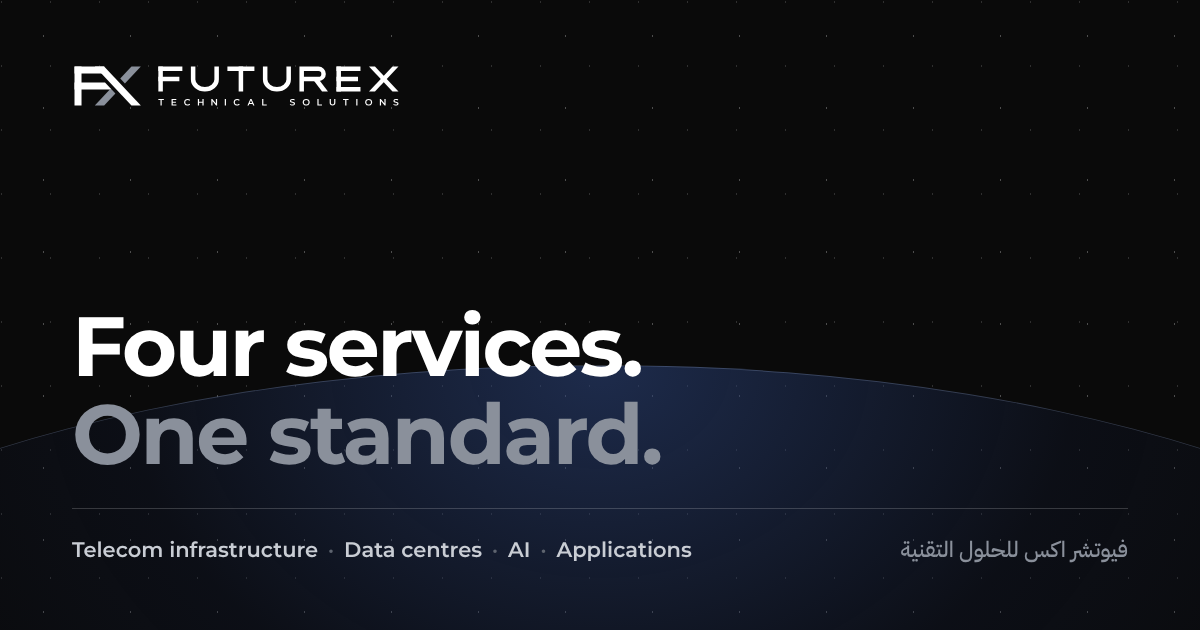
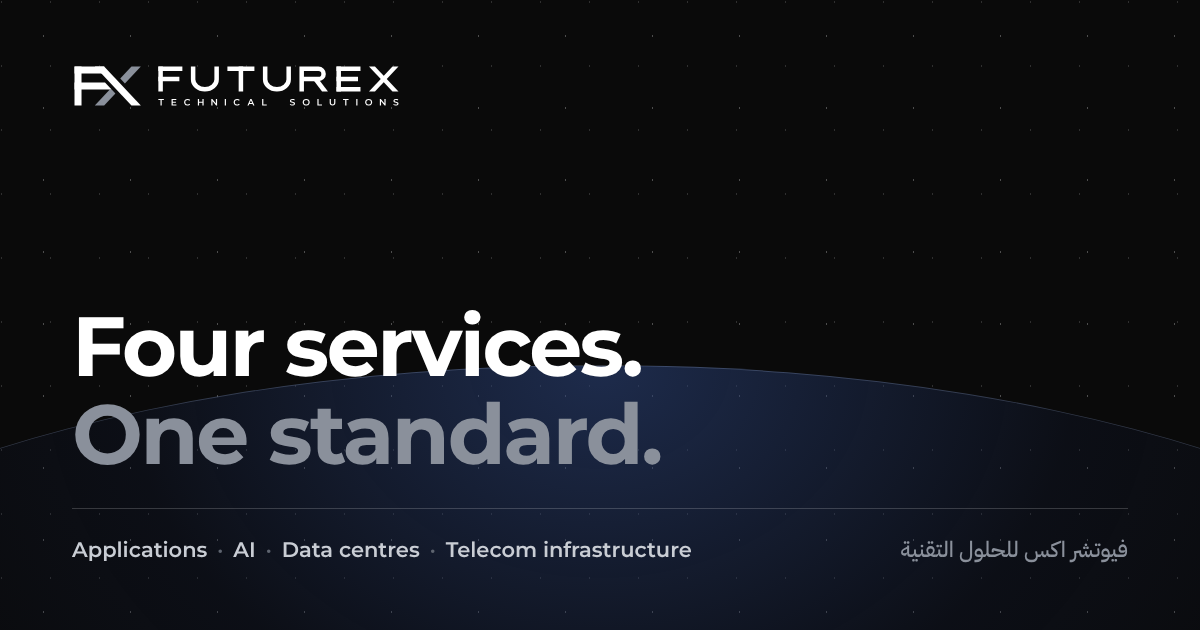
FutureX website: list the services as applications, AI, data centres, telecom
Owner's rule: wherever FutureX's services are listed, applications come
first, then artificial intelligence, data centres and telecom
infrastructure, in English and Arabic. The service sections, hero links,
descriptions, link-preview image and the sentences that name the services
follow it. The 3D stack now puts applications on top and picks each
drawing by service, not by position. The rule is recorded in CLAUDE.md.

Claude-Session: https://claude.ai/code/session_01G2LhEeTJSdnBC14fUCXsH8

Changed region(s): [[0.0617, 0.8444, 0.5858, 0.9048]]

diff --git a/futurex-site/src/i18n/content.js b/futurex-site/src/i18n/content.js
@@ -12,12 +12,12 @@ const en = {
   meta: {
     title: 'FutureX Technical Solutions',
     description:
-      'FutureX Technical Solutions, Muscat: telecom infrastructure, data centres, artificial intelligence and software applications for organisations in Oman.',
+      'FutureX Technical Solutions, Muscat: software applications, artificial intelligence, data centres and telecom infrastructure for organisations in Oman.',
   },
   nav: { layers: 'What we do', products: 'Products', approach: 'How we work', company: 'Company', contact: 'Contact', cta: 'Talk to us', lang: 'العربية', langLabel: 'Read this site in Arabic', menu: 'Menu', close: 'Close' },
   hero: {
     title: ['Four services.', 'One standard.'],
-    lead: 'Telecom infrastructure, data centres, artificial intelligence and software development. FutureX Technical Solutions offers each as a separate service, so you hire us for exactly what your project needs.',
+    lead: 'Software development, artificial intelligence, data centres and telecom infrastructure. FutureX Technical Solutions offers each as a separate service, so you hire us for exactly what your project needs.',
     primary: 'Talk to our team',
     secondary: 'See our services',
   },
@@ -25,33 +25,21 @@ const en = {
     eyebrow: 'What we do',
     title: 'Each service stands on its own.',
     intro:
-      'Every service is its own line of work, with its own team and its own contract. One client needs a fibre network built, another a data centre designed, another an AI project or a new app: we take on each one separately.',
-    stackLabel: 'Our four services: telecom infrastructure, data centres, artificial intelligence and applications',
+      'Every service is its own line of work, with its own team and its own contract. One client needs a new app, another an AI project, another a data centre designed or a fibre network built: we take on each one separately.',
+    stackLabel: 'Our four services: applications, artificial intelligence, data centres and telecom infrastructure',
     ask: 'Ask about this service',
     askMessage: 'Hello FutureX, I would like to ask about: {service}',
     items: [
       {
-        id: 'telecom',
-        name: 'Telecom infrastructure',
-        tagline: 'The network everything travels on.',
+        id: 'apps',
+        name: 'Applications',
+        tagline: 'What people actually touch.',
         services: [
-          'Fibre optic network design and deployment (FTTx)',
-          'Structured cabling for buildings and campuses',
-          'Site surveys, testing and as-built documentation',
-          'Active and passive network installation',
-          'Preventive and corrective maintenance',
-        ],
-      },
-      {
-        id: 'datacentre',
-        name: 'Data centres',
-        tagline: 'Where your systems live.',
-        services: [
-          'Server room and data centre fit-out',
-          'Racks, containment and cabling',
-          'Power and cooling coordination (UPS, precision cooling)',
-          'Monitoring, migration and relocation',
-          'Capacity and growth planning',
+          'Mobile apps for iPhone and Android',
+          'Web applications and portals',
+          'Business systems: accounting, HR, operations',
+          'Integration with the systems you already use',
+          'Support and updates after launch',
         ],
       },
       {
@@ -67,15 +55,27 @@ const en = {
         ],
       },
       {
-        id: 'apps',
-        name: 'Applications',
-        tagline: 'What people actually touch.',
+        id: 'datacentre',
+        name: 'Data centres',
+        tagline: 'Where your systems live.',
         services: [
-          'Mobile apps for iPhone and Android',
-          'Web applications and portals',
-          'Business systems: accounting, HR, operations',
-          'Integration with the systems you already use',
-          'Support and updates after launch',
+          'Server room and data centre fit-out',
+          'Racks, containment and cabling',
+          'Power and cooling coordination (UPS, precision cooling)',
+          'Monitoring, migration and relocation',
+          'Capacity and growth planning',
+        ],
+      },
+      {
+        id: 'telecom',
+        name: 'Telecom infrastructure',
+        tagline: 'The network everything travels on.',
+        services: [
+          'Fibre optic network design and deployment (FTTx)',
+          'Structured cabling for buildings and campuses',
+          'Site surveys, testing and as-built documentation',
+          'Active and passive network installation',
+          'Preventive and corrective maintenance',
         ],
       },
     ],
@@ -114,7 +114,7 @@ const en = {
   contact: {
     eyebrow: 'Contact',
     title: 'Let’s build your next project together.',
-    text: 'A site to connect, a server room to fit out, a process to automate or an app to launch: send us the details and we will arrange a meeting.',
+    text: 'An app to launch, a process to automate, a server room to fit out or a site to connect: send us the details and we will arrange a meeting.',
     email: 'Email',
     phone: 'Phone and WhatsApp',
     whatsapp: 'Message us on WhatsApp',
@@ -134,45 +134,33 @@ const ar = {
   dir: 'rtl',
   meta: {
     title: 'فيوتشر اكس للحلول التقنية',
-    description: 'فيوتشر اكس للحلول التقنية، مسقط: البنية التحتية للاتصالات، ومراكز البيانات، والذكاء الاصطناعي، وتطوير البرمجيات للمؤسسات في سلطنة عُمان.',
+    description: 'فيوتشر اكس للحلول التقنية، مسقط: تطوير البرمجيات، والذكاء الاصطناعي، ومراكز البيانات، والبنية التحتية للاتصالات للمؤسسات في سلطنة عُمان.',
   },
   nav: { layers: 'خدماتنا', products: 'منتجاتنا', approach: 'آلية العمل', company: 'الشركة', contact: 'تواصلوا معنا', cta: 'تحدّثوا معنا', lang: 'English', langLabel: 'Read this site in English', menu: 'القائمة', close: 'إغلاق' },
   hero: {
     title: ['أربع خدمات.', 'بمعيار واحد.'],
-    lead: 'البنية التحتية للاتصالات، ومراكز البيانات، والذكاء الاصطناعي، وتطوير البرمجيات. تقدّم فيوتشر اكس للحلول التقنية كلّاً منها خدمةً مستقلة، لتختاروا منها ما يحتاجه مشروعكم.',
+    lead: 'تطوير البرمجيات، والذكاء الاصطناعي، ومراكز البيانات، والبنية التحتية للاتصالات. تقدّم فيوتشر اكس للحلول التقنية كلّاً منها خدمةً مستقلة، لتختاروا منها ما يحتاجه مشروعكم.',
     primary: 'تحدّثوا مع فريقنا',
     secondary: 'تعرّفوا على خدماتنا',
   },
   layers: {
     eyebrow: 'خدماتنا',
     title: 'كل خدمة مستقلة بذاتها.',
-    intro: 'لكل خدمة مجالها وفريقها وعقدها الخاص. فقد يحتاج عميلٌ إلى تنفيذ شبكة ألياف ضوئية، وآخر إلى تصميم مركز بيانات، وثالث إلى مشروع ذكاء اصطناعي أو تطبيق جديد، ونتولّى كل خدمة منها على حدة.',
-    stackLabel: 'خدماتنا الأربع: البنية التحتية للاتصالات، ومراكز البيانات، والذكاء الاصطناعي، والتطبيقات',
+    intro: 'لكل خدمة مجالها وفريقها وعقدها الخاص. فقد يحتاج عميلٌ إلى تطبيق جديد، وآخر إلى مشروع ذكاء اصطناعي، وثالث إلى تصميم مركز بيانات أو تنفيذ شبكة ألياف ضوئية، ونتولّى كل خدمة منها على حدة.',
+    stackLabel: 'خدماتنا الأربع: التطبيقات، والذكاء الاصطناعي، ومراكز البيانات، والبنية التحتية للاتصالات',
     ask: 'استفسروا عن هذه الخدمة',
     askMessage: 'مرحباً فيوتشر اكس، أودّ الاستفسار عن خدمة: {service}',
     items: [
       {
-        id: 'telecom',
-        name: 'البنية التحتية للاتصالات',
-        tagline: 'الشبكة التي ينتقل عبرها كل شيء.',
+        id: 'apps',
+        name: 'التطبيقات',
+        tagline: 'ما يستخدمه الناس فعلاً.',
         services: [
-          'تصميم شبكات الألياف الضوئية وتنفيذها (FTTx)',
-          'أنظمة الكابلات المهيكلة للمباني والمجمّعات',
-          'المسح الميداني والاختبار وإعداد المخططات النهائية (As-Built)',
-          'تركيب مكوّنات الشبكات النشطة والخاملة',
-          'الصيانة الوقائية والتصحيحية',
-        ],
-      },
-      {
-        id: 'datacentre',
-        name: 'مراكز البيانات',
-        tagline: 'حيث تعمل أنظمتكم.',
-        services: [
-          'تجهيز غرف الخوادم ومراكز البيانات',
-          'خزائن الخوادم وعزل الممرات والتمديدات',
-          'تنسيق أنظمة الطاقة والتبريد، ومنها مزوّدات الطاقة غير المنقطعة (UPS) والتبريد الدقيق',
-          'المراقبة، وترحيل الأنظمة ونقلها',
-          'تخطيط السعة والتوسّع',
+          'تطبيقات الجوال لأجهزة آيفون وأندرويد',
+          'تطبيقات وبوابات الويب',
+          'أنظمة الأعمال: المحاسبة والموارد البشرية والعمليات',
+          'الربط بالأنظمة التي تستخدمونها حالياً',
+          'الدعم والتحديثات بعد الإطلاق',
         ],
       },
       {
@@ -188,15 +176,27 @@ const ar = {
         ],
       },
       {
-        id: 'apps',
-        name: 'التطبيقات',
-        tagline: 'ما يستخدمه الناس فعلاً.',
+        id: 'datacentre',
+        name: 'مراكز البيانات',
+        tagline: 'حيث تعمل أنظمتكم.',
         services: [
-          'تطبيقات الجوال لأجهزة آيفون وأندرويد',
-          'تطبيقات وبوابات الويب',
-          'أنظمة الأعمال: المحاسبة والموارد البشرية والعمليات',
-          'الربط بالأنظمة التي تستخدمونها حالياً',
-          'الدعم والتحديثات بعد الإطلاق',
+          'تجهيز غرف الخوادم ومراكز البيانات',
+          'خزائن الخوادم وعزل الممرات والتمديدات',
+          'تنسيق أنظمة الطاقة والتبريد، ومنها مزوّدات الطاقة غير المنقطعة (UPS) والتبريد الدقيق',
+          'المراقبة، وترحيل الأنظمة ونقلها',
+          'تخطيط السعة والتوسّع',
+        ],
+      },
+      {
+        id: 'telecom',
+        name: 'البنية التحتية للاتصالات',
+        tagline: 'الشبكة التي ينتقل عبرها كل شيء.',
+        services: [
+          'تصميم شبكات الألياف الضوئية وتنفيذها (FTTx)',
+          'أنظمة الكابلات المهيكلة للمباني والمجمّعات',
+          'المسح الميداني والاختبار وإعداد المخططات النهائية (As-Built)',
+          'تركيب مكوّنات الشبكات النشطة والخاملة',
+          'الصيانة الوقائية والتصحيحية',
         ],
       },
     ],
@@ -235,7 +235,7 @@ const ar = {
   contact: {
     eyebrow: 'تواصلوا معنا',
     title: 'لنبنِ مشروعكم القادم معاً.',
-    text: 'موقع تريدون ربطه، أو غرفة خوادم تريدون تجهيزها، أو إجراء تريدون أتمتته، أو تطبيق تريدون إطلاقه: أرسلوا إلينا التفاصيل ونرتّب معكم اجتماعاً.',
+    text: 'تطبيق تريدون إطلاقه، أو إجراء تريدون أتمتته، أو غرفة خوادم تريدون تجهيزها، أو موقع تريدون ربطه: أرسلوا إلينا التفاصيل ونرتّب معكم اجتماعاً.',
     email: 'البريد الإلكتروني',
     phone: 'الهاتف وواتساب',
     whatsapp: 'راسلونا على واتساب',

diff --git a/futurex-site/src/components/LayerStack.jsx b/futurex-site/src/components/LayerStack.jsx
@@ -1,6 +1,7 @@
-// The four services drawn as separate isometric plates, one per service; the one being read lifts and lights up.
+// The four services drawn as separate isometric plates, one per service, in the site's order (applications on
+// top, telecom at the bottom); the one being read lifts and lights up.
 // Each plate's top face is a unit square mapped onto the isometric diamond, so the drawings on it
-// (fibre runs, rack rows, a neural network, app screens) sit in true perspective.
+// (app screens, a neural network, rack rows, fibre runs) sit in true perspective.
 
 const W = 420;
 const HALF_W = 150;
@@ -9,7 +10,8 @@ const DEPTH = 14;
 const GAP = 140;
 const BASE_Y = 500;
 
-const cyOf = (i) => BASE_Y - i * GAP;
+// The first service is drawn on top (the list reads top to bottom), the last at the bottom.
+const cyOf = (i, n) => BASE_Y - (n - 1 - i) * GAP;
 
 function Telecom() {
   const rows = [0.2, 0.35, 0.5, 0.65, 0.8];
@@ -69,19 +71,20 @@ function Apps() {
   );
 }
 
-const DRAWINGS = [Telecom, DataCentre, Ai, Apps];
+const DRAWINGS = { telecom: Telecom, datacentre: DataCentre, ai: Ai, apps: Apps };
 
 export default function LayerStack({ items, active, label }) {
   return (
     <svg className="stack" viewBox={`0 -24 ${W} 630`} role="img" aria-label={label}>
-      {items.map((item, i) => {
-        const cy = cyOf(i);
+      {/* Painted bottom plate first, so each higher plate sits over the one below it. */}
+      {items.map((item, i) => ({ item, i })).reverse().map(({ item, i }) => {
+        const cy = cyOf(i, items.length);
         const top = cy - HALF_H;
         const x0 = W / 2 - HALF_W;
         const x1 = W / 2 + HALF_W;
-        const Drawing = DRAWINGS[i];
+        const Drawing = DRAWINGS[item.id];
         return (
-          <g key={item.id} className={`plate${i === active ? ' is-active' : ''}${i > active ? ' is-above' : ''}`}>
+          <g key={item.id} className={`plate${i === active ? ' is-active' : ''}${i < active ? ' is-above' : ''}`}>
             <polygon className="side l" points={`${x0},${cy} ${W / 2},${cy + HALF_H} ${W / 2},${cy + HALF_H + DEPTH} ${x0},${cy + DEPTH}`} />
             <polygon className="side r" points={`${x1},${cy} ${W / 2},${cy + HALF_H} ${W / 2},${cy + HALF_H + DEPTH} ${x1},${cy + DEPTH}`} />
             <polygon className="face" points={`${W / 2},${top} ${x1},${cy} ${W / 2},${cy + HALF_H} ${x0},${cy}`} />

diff --git a/futurex-site/index.html b/futurex-site/index.html
@@ -7,7 +7,7 @@
     <meta name="claude:viewport-fit-sides" content="cover" />
     <!-- Testing only: keeps search engines out until launch. Remove both lines (and public/robots.txt) to go live. -->
     <meta name="robots" content="noindex, nofollow" />
-    <meta name="description" content="FutureX Technical Solutions, Muscat: telecom infrastructure, data centres, artificial intelligence and software applications for organisations in Oman." />
+    <meta name="description" content="FutureX Technical Solutions, Muscat: software applications, artificial intelligence, data centres and telecom infrastructure for organisations in Oman." />
     <meta name="theme-color" content="#0A0B0D" />
     <link rel="icon" type="image/svg+xml" href="./favicon.svg" />
     <link rel="apple-touch-icon" href="./apple-touch-icon.png" />
@@ -15,7 +15,7 @@
     <meta property="og:type" content="website" />
     <meta property="og:site_name" content="FutureX Technical Solutions" />
     <meta property="og:title" content="FutureX Technical Solutions" />
-    <meta property="og:description" content="Telecom infrastructure, data centres, artificial intelligence and software development in Oman. Four separate services." />
+    <meta property="og:description" content="Software development, artificial intelligence, data centres and telecom infrastructure in Oman. Four separate services." />
     <meta property="og:url" content="%SITE_URL%" />
     <meta property="og:image" content="%SITE_URL%og.png" />
     <meta property="og:image:width" content="1200" />

diff --git a/CLAUDE.md b/CLAUDE.md
@@ -6,6 +6,8 @@ This repository holds two things:
 - `futurex-site/`: the FutureX company website (Vite + React, English and Arabic). Its `README.md` has the commands, tools, hosting (Cloudflare Pages, never Vercel's free plan) and the launch steps.
 - Root files (`index.html`, `app.js.txt`, `styles.css .txt`): the original Billion Pixels page. Leave them alone unless asked.
 
+Service order (owner's rule, 18 Nov 2026): wherever FutureX's services are listed (website, company profile, proposals, any document, English and Arabic), always use this order: 1. Applications (التطبيقات), 2. Artificial intelligence (الذكاء الاصطناعي), 3. Data centres (مراكز البيانات), 4. Telecom infrastructure (البنية التحتية للاتصالات).
+
 Publisher of every app in this account: FutureX Technical Solutions (فيوتشر اكس للحلول التقنية), Al Wizarat, Bausher, Muscat, Commercial Registration No. 1685674. Support email for all apps: futurex.om@outlook.com.
 
 GitHub organization: the company's code is moving to the `FutureX-Oman` organization (created 16 Nov 2026). ATND moves first. This repository moves only after the company domain (futurexoman.com) serves Hisab's public pages and the FutureX site, because GitHub Pages addresses are not redirected after a move and the store listings link to them. After any move, update the cloud environment, Claude's GitHub access, CI, EAS and Cloudflare connections, and test every public link.

diff --git a/futurex-site/README.md b/futurex-site/README.md
@@ -1,6 +1,6 @@
 # FutureX website
 
-The company website of FutureX Technical Solutions LLC (CR 1685674), in English and Arabic. One page: four separate services (telecom infrastructure, data centres, artificial intelligence, applications), the company's own products (Hisab, ATND), how a project runs, why FutureX, and contact details. Each service has an "Ask about this service" link that opens WhatsApp with the service name filled in.
+The company website of FutureX Technical Solutions LLC (CR 1685674), in English and Arabic. One page: four separate services (applications, artificial intelligence, data centres, telecom infrastructure; always in this order), the company's own products (Hisab, ATND), how a project runs, why FutureX, and contact details. Each service has an "Ask about this service" link that opens WhatsApp with the service name filled in.
 
 ## Commands
 
